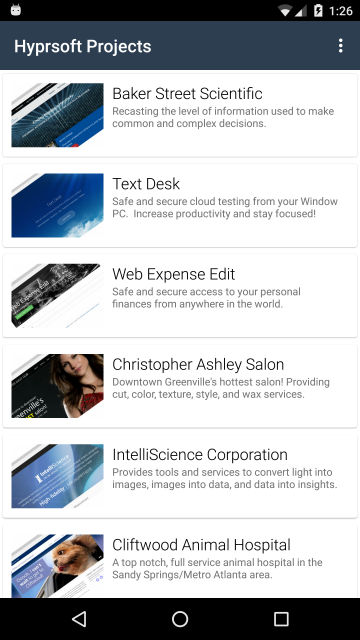
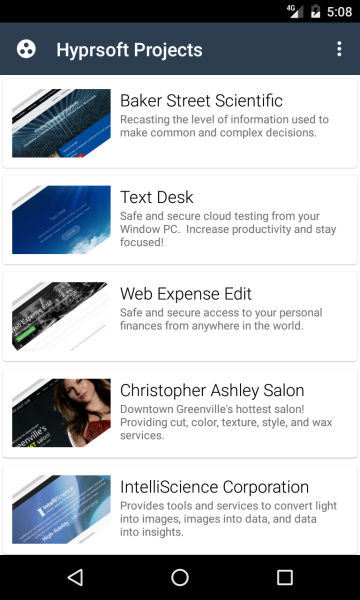
Added about dialog.

diff --git a/HyprsoftProjectsAndroidApp/Resources/Resource.Designer.cs b/HyprsoftProjectsAndroidApp/Resources/Resource.Designer.cs
@@ -164,10 +164,16 @@ namespace HyprsoftProjectsAndroidApp
 			public const int ic_autorenew_white_24dp = 2130837504;
 			
 			// aapt resource value: 0x7f020001
-			public const int icon = 2130837505;
+			public const int ic_info_white_24dp = 2130837505;
 			
 			// aapt resource value: 0x7f020002
-			public const int placeholder = 2130837506;
+			public const int icon = 2130837506;
+			
+			// aapt resource value: 0x7f020003
+			public const int icon_blue = 2130837507;
+			
+			// aapt resource value: 0x7f020004
+			public const int placeholder = 2130837508;
 			
 			static Drawable()
 			{
@@ -182,32 +188,38 @@ namespace HyprsoftProjectsAndroidApp
 		public partial class Id
 		{
 			
-			// aapt resource value: 0x7f050001
-			public const int AppToolbar = 2131034113;
-			
 			// aapt resource value: 0x7f050002
-			public const int Progressbar = 2131034114;
+			public const int AppToolbar = 2131034114;
 			
-			// aapt resource value: 0x7f050006
-			public const int ProjectDescTextView = 2131034118;
-			
-			// aapt resource value: 0x7f050004
-			public const int ProjectImageImageView = 2131034116;
-			
-			// aapt resource value: 0x7f050005
-			public const int ProjectTitleTextView = 2131034117;
+			// aapt resource value: 0x7f050001
+			public const int AppVersion = 2131034113;
 			
 			// aapt resource value: 0x7f050003
-			public const int ProjectsRecyclerView = 2131034115;
+			public const int Progressbar = 2131034115;
 			
 			// aapt resource value: 0x7f050007
-			public const int agentWebView = 2131034119;
+			public const int ProjectDescTextView = 2131034119;
+			
+			// aapt resource value: 0x7f050005
+			public const int ProjectImageImageView = 2131034117;
+			
+			// aapt resource value: 0x7f050006
+			public const int ProjectTitleTextView = 2131034118;
+			
+			// aapt resource value: 0x7f050004
+			public const int ProjectsRecyclerView = 2131034116;
+			
+			// aapt resource value: 0x7f050008
+			public const int agentWebView = 2131034120;
 			
 			// aapt resource value: 0x7f050000
 			public const int item_touch_helper_previous_elevation = 2131034112;
 			
-			// aapt resource value: 0x7f050008
-			public const int menu_refresh = 2131034120;
+			// aapt resource value: 0x7f05000a
+			public const int menu_about = 2131034122;
+			
+			// aapt resource value: 0x7f050009
+			public const int menu_refresh = 2131034121;
 			
 			static Id()
 			{
@@ -223,13 +235,16 @@ namespace HyprsoftProjectsAndroidApp
 		{
 			
 			// aapt resource value: 0x7f030000
-			public const int Main = 2130903040;
+			public const int About = 2130903040;
 			
 			// aapt resource value: 0x7f030001
-			public const int ProjectCardView = 2130903041;
+			public const int Main = 2130903041;
 			
 			// aapt resource value: 0x7f030002
-			public const int WebAuthenticationBroker = 2130903042;
+			public const int ProjectCardView = 2130903042;
+			
+			// aapt resource value: 0x7f030003
+			public const int WebAuthenticationBroker = 2130903043;
 			
 			static Layout()
 			{
@@ -260,8 +275,20 @@ namespace HyprsoftProjectsAndroidApp
 		public partial class String
 		{
 			
+			// aapt resource value: 0x7f080004
+			public const int AppVersion = 2131230724;
+			
 			// aapt resource value: 0x7f080000
 			public const int ApplicationName = 2131230720;
+			
+			// aapt resource value: 0x7f080001
+			public const int Copyright = 2131230721;
+			
+			// aapt resource value: 0x7f080003
+			public const int MenuAbout = 2131230723;
+			
+			// aapt resource value: 0x7f080002
+			public const int MenuRefresh = 2131230722;
 			
 			static String()
 			{

diff --git a/HyprsoftProjectsAndroidApp/MainActivity.cs b/HyprsoftProjectsAndroidApp/MainActivity.cs
@@ -15,10 +15,11 @@ using Android.Support.V7.Widget;
 using Android.Widget;
 using Android.Views;
 using Android.Content;
+using Android.Content.PM;
 
 namespace HyprsoftProjectsAndroidApp
 {
-    [Activity(Label = "Hyprsoft Projects", MainLauncher = true, Icon = "@drawable/icon")]
+    [Activity(Label = "Hyprsoft Projects", MainLauncher = true, Icon = "@drawable/icon", ConfigurationChanges = ConfigChanges.Orientation | ConfigChanges.ScreenSize)]
     public class MainActivity : Activity
     {
         #region Fields
@@ -40,7 +41,9 @@ namespace HyprsoftProjectsAndroidApp
 
             SetContentView(Resource.Layout.Main);
 
-            SetActionBar(FindViewById<Toolbar>(Resource.Id.AppToolbar));
+            var toolbar = FindViewById<Toolbar>(Resource.Id.AppToolbar);
+            toolbar.SetNavigationIcon(Resource.Drawable.icon);
+            SetActionBar(toolbar);
             ActionBar.Title = GetString(Resource.String.ApplicationName);
 
             _projectsDataSource = new List<Project>();
@@ -63,9 +66,30 @@ namespace HyprsoftProjectsAndroidApp
 
         public override bool OnOptionsItemSelected(IMenuItem item)
         {
+            switch (item.ItemId)
+            {
+                case Resource.Id.menu_refresh:
 #pragma warning disable CS4014
-            LoadProjectsAsync();    // Fire and forget
+                    LoadProjectsAsync();    // Fire and forget
 #pragma warning restore CS4014
+                    break;
+                case Resource.Id.menu_about:
+                    var alert = new AlertDialog.Builder(this);
+                    var layout = LayoutInflater.Inflate(Resource.Layout.About, null);
+                    alert.SetView(layout);
+                    var version = "n/a";
+                    try
+                    {
+                        version = PackageManager.GetPackageInfo(PackageName, 0).VersionName;
+                    }
+                    catch (PackageManager.NameNotFoundException)
+                    {
+                    }
+                    ((TextView)layout.FindViewById(Resource.Id.AppVersion)).Text = $"{GetString(Resource.String.AppVersion)}: {version}";
+                    alert.Create().Show();
+                    break;
+            }
+
             return base.OnOptionsItemSelected(item);
         }
 

diff --git a/readme.md b/readme.md
@@ -11,6 +11,7 @@ This repository demonstrates managing and displaying recent web projects complet
 
 ### Native Android App
 ![Native Android App](https://cdn.rawgit.com/hyprsoftcorp/HyprsoftProjectsDemo/master/Images/android.jpg "Native Android App")
+![Native Android App](https://cdn.rawgit.com/hyprsoftcorp/HyprsoftProjectsDemo/master/Images/android_about.jpg "Native Android App")
 
 ### Windows Console App
 ![Windows Console App](https://cdn.rawgit.com/hyprsoftcorp/HyprsoftProjectsDemo/master/Images/console.jpg "Windows Console App")
